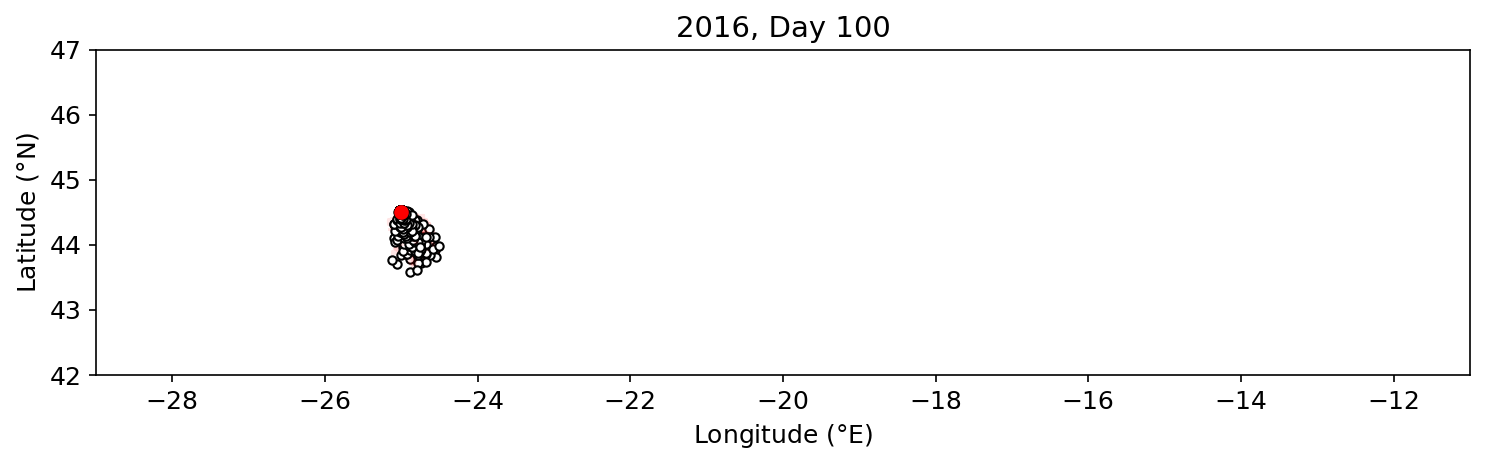
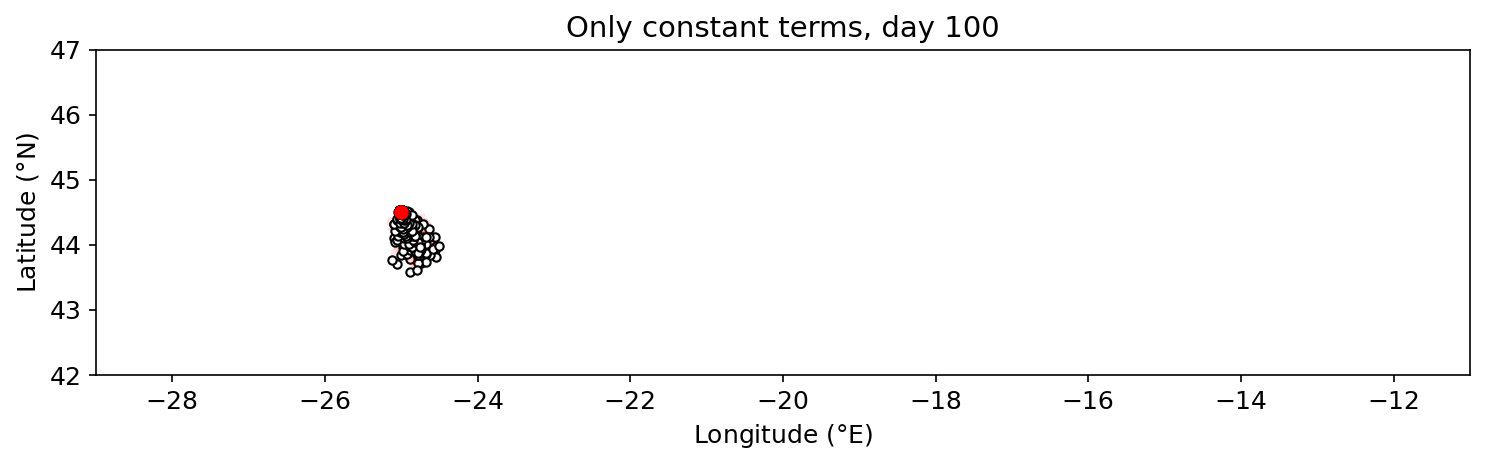
changes

Changed region(s): [[0.3717, 0.0301, 0.6815, 0.0903]]

diff --git a/plotting/plot_image_fine_custom.py b/plotting/plot_image_fine_custom.py
@@ -34,16 +34,17 @@ walk_opacity = 10/frame  # Opacity of path lines
 density_resolution = f'{dx}x{dy}_{dt}'
 matrix_cutoff = 0.001
 vmin, vmax = 0, 2
+title = "Only constant terms, day 100"
 
 # === Load data ===
-metadata = load_data("pde_onlyConstant", year, days, density_resolution, 'metadata')
+metadata = load_data("pde_onlyDiffusion", year, days, density_resolution, 'metadata')
 paths, start_frames = load_data('discrete_onlyConstant', year, days, f'{walk_nperday}perday', 'allpositions')
 processed_paths = [zipCoords(path) for path in paths]
-filename = "figures/special/pde_onlyConstant.png"
+filename = "figures/special/rw_onlyConstant.png"
 
 
 # === Load matrix for the specific frame ===
-matrix = load_data("pde_onlyConstant", year, days, density_resolution, frame)[0]
+matrix = load_data("pde_onlyDiffusion", year, days, density_resolution, frame)[0]
 y_min_display = 42.5
 y_max_display = 46.5
 label_fontsize = 12
@@ -102,10 +103,10 @@ if mode in {"rw", "both"}:
         ax.plot(offset - 25, 44.5, 'ko')  # origin
 
     # Fixed red marker
-    ax.plot(offset - 25.25, 44.75, 'ro')
+    ax.plot(offset - 25, 44.5, 'ro')
 
 # === Final touches ===
-ax.set_title(f"{year}, Day {frame}", fontsize=title_fontsize)
+ax.set_title(title, fontsize=title_fontsize)
 ax.set_xlabel("Longitude ($\degree$E)", fontsize=label_fontsize)
 ax.set_ylabel("Latitude ($\degree$N)", fontsize=label_fontsize)
 ax.tick_params(labelsize=tick_fontsize)

diff --git a/plotting/plot_video_fine.py b/plotting/plot_video_fine.py
@@ -15,7 +15,7 @@ from library.functions import load_data, progressBar, zipCoords
 import time
 
 # Handle arguments
-if len(sys.argv) != 9:
+if len(sys.argv) != 8:
     print("Usage: python combined_plot_video.py <year> <ndays> <dx> <dy> <dt> <nperday> <offset> <mode>")
     sys.exit(1)
 
@@ -139,7 +139,7 @@ def update(frame):
 
             artists.extend([dots[i], crosses[i], starts[i]])
 
-    ax.set_title(f"{year}, Day {frame}", fontsize=title_fontsize)
+    ax.set_title(f"Year {year}, day {frame}", fontsize=title_fontsize)
     ax.set_xlabel("Longitude ($\degree$E)", fontsize=label_fontsize)
     ax.set_ylabel("Latitude ($\degree$N)", fontsize=label_fontsize)
     ax.tick_params(labelsize=tick_fontsize)
@@ -151,7 +151,6 @@ def update(frame):
 print("Starting combined animation...")
 ani = animation.FuncAnimation(fig, update, frames=max_steps, interval=1000 / fps, blit=True)
 writer = FFMpegWriter(fps=fps)
-print(mode)
 if mode == 'both':
     ani.save(f'videos/combined/{output_filename}', writer=writer)
     print("Animation saved:", output_filename)

diff --git a/plotting/plot_image_fine.py b/plotting/plot_image_fine.py
@@ -101,7 +101,7 @@ if mode in {"rw", "both"}:
     ax.plot(offset - 25, 44.5, 'ro')
 
 # === Final touches ===
-ax.set_title(f"{year}, Day {frame}", fontsize=title_fontsize)
+ax.set_title(f"Year {year}, day {frame}", fontsize=title_fontsize)
 ax.set_xlabel("Longitude ($\degree$E)", fontsize=label_fontsize)
 ax.set_ylabel("Latitude ($\degree$N)", fontsize=label_fontsize)
 ax.tick_params(labelsize=tick_fontsize)
